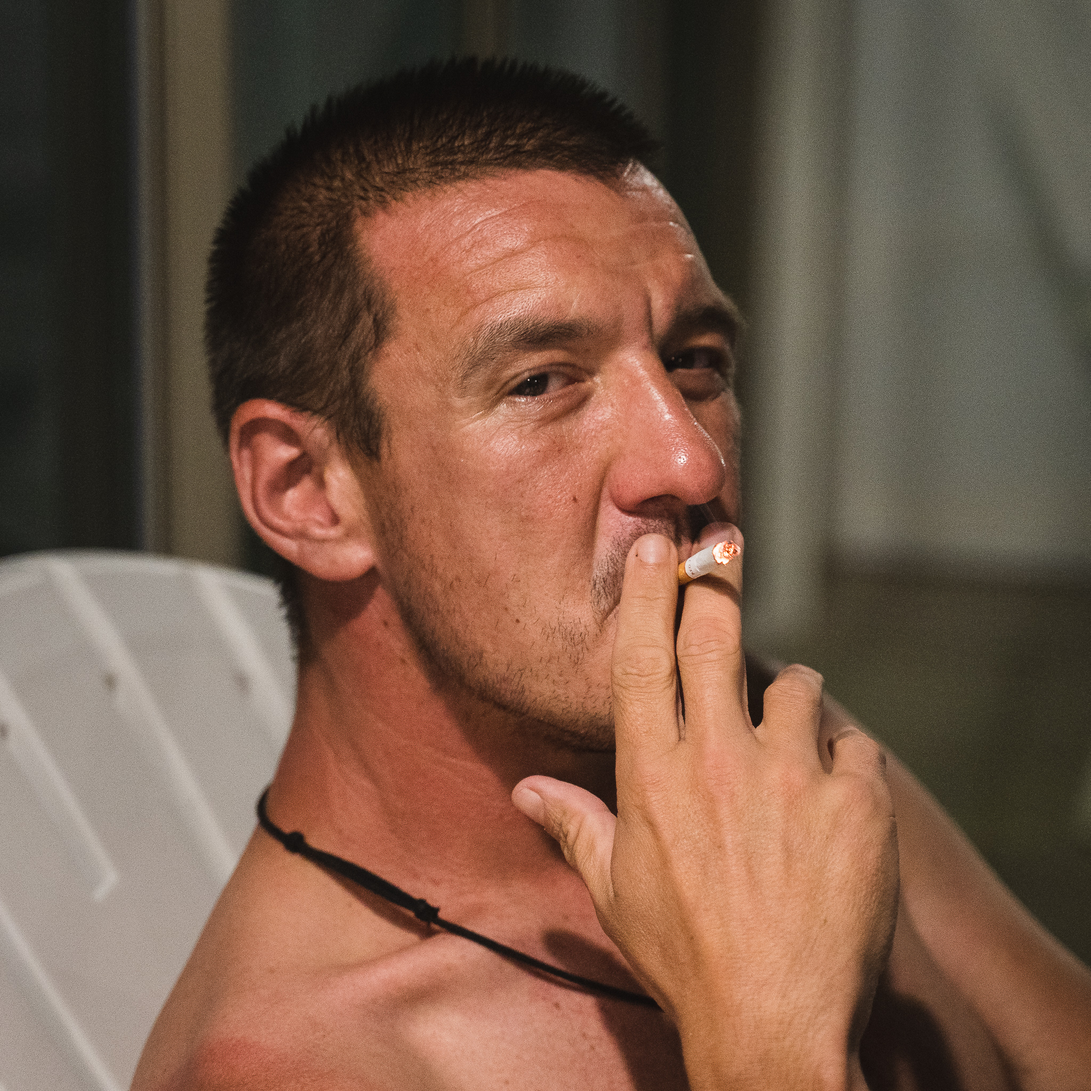
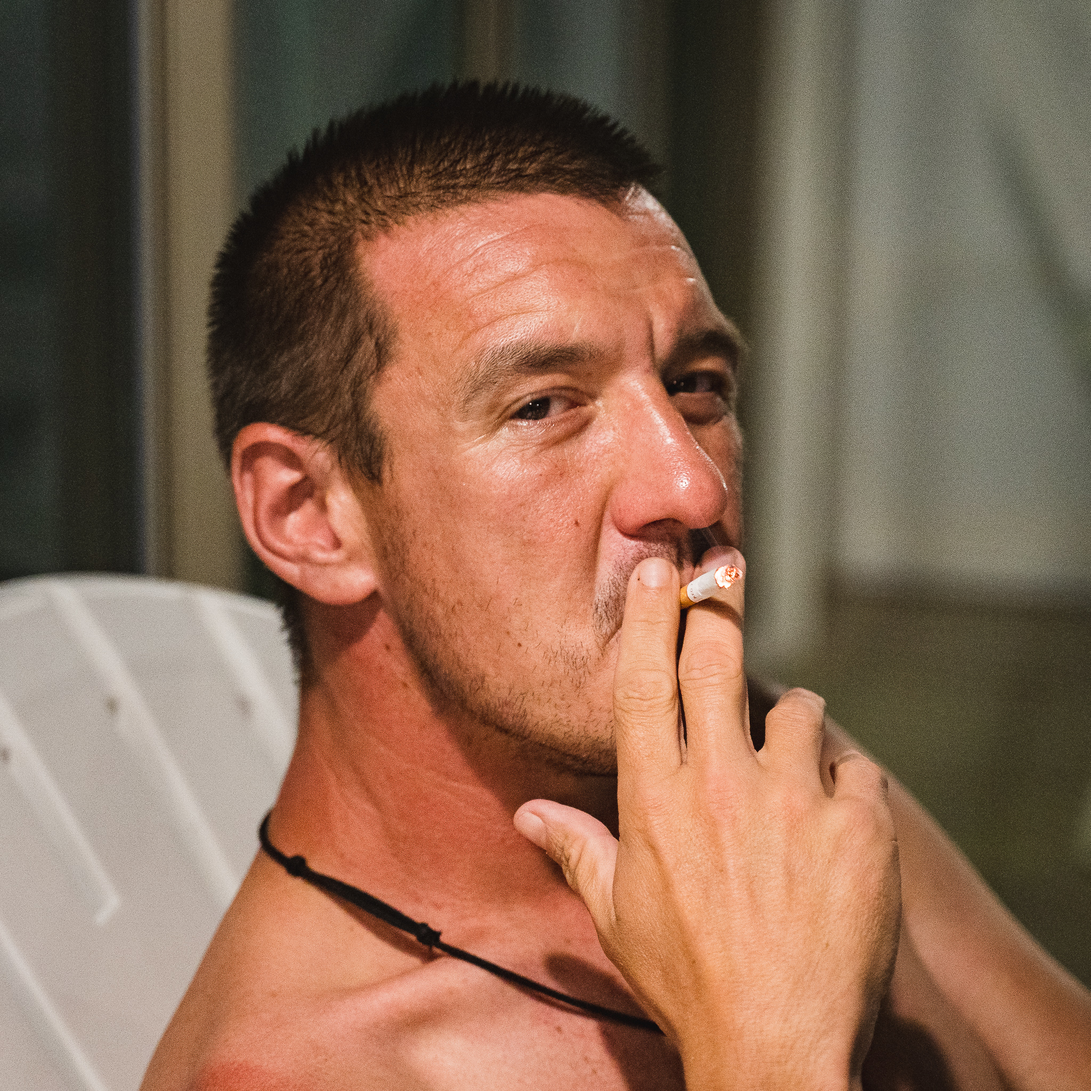
Publish to master (publish.sh)

diff --git a/gallery/index.html b/gallery/index.html
@@ -84,7 +84,7 @@ Gallery - Call me Zak
     
         <div>
             <a href="/gallery/1-pete.jpg">
-                <img src="/gallery/1-pete_hu6054c8215a748c6ca50e7d42ed6c7733_2665470_1280x0_resize_q75_box.jpg" alt="1-pete.jpg" />     
+                <img src="/gallery/1-pete_hu0637329183335ce3aec6255b7ea1d9b7_3023053_1280x0_resize_q75_box.jpg" alt="1-pete.jpg" />     
             </a>
         </div>
         
